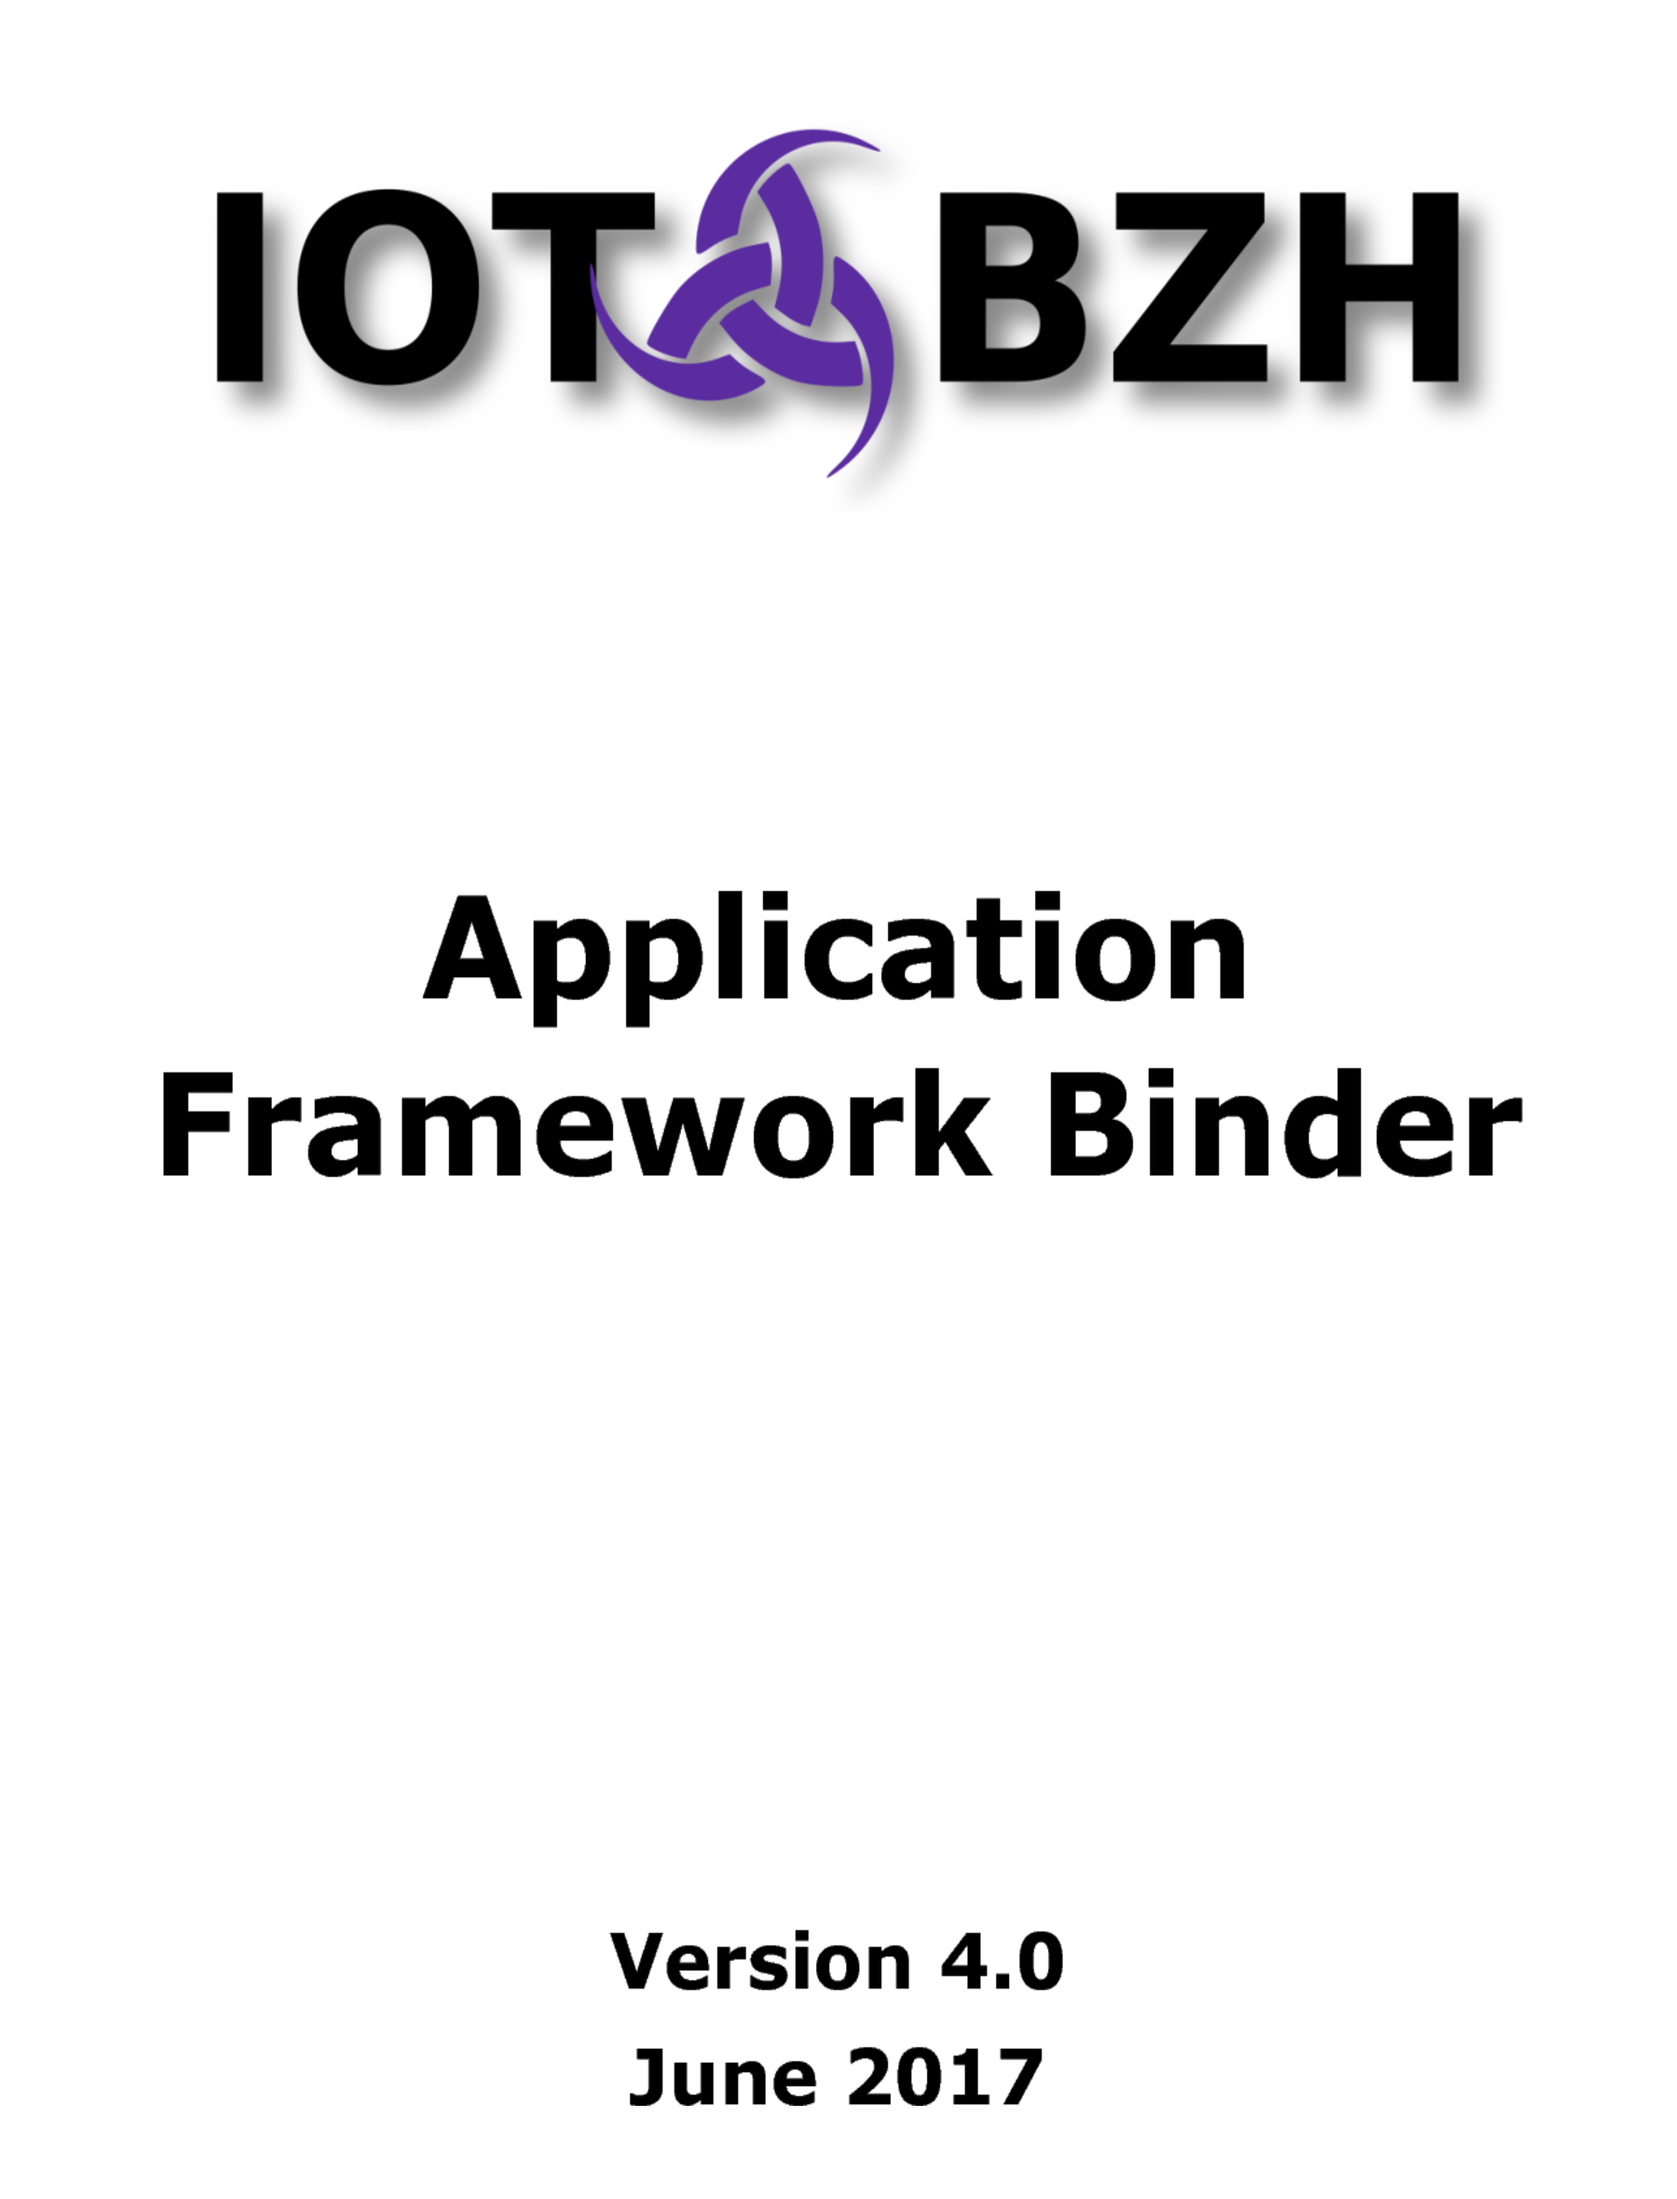
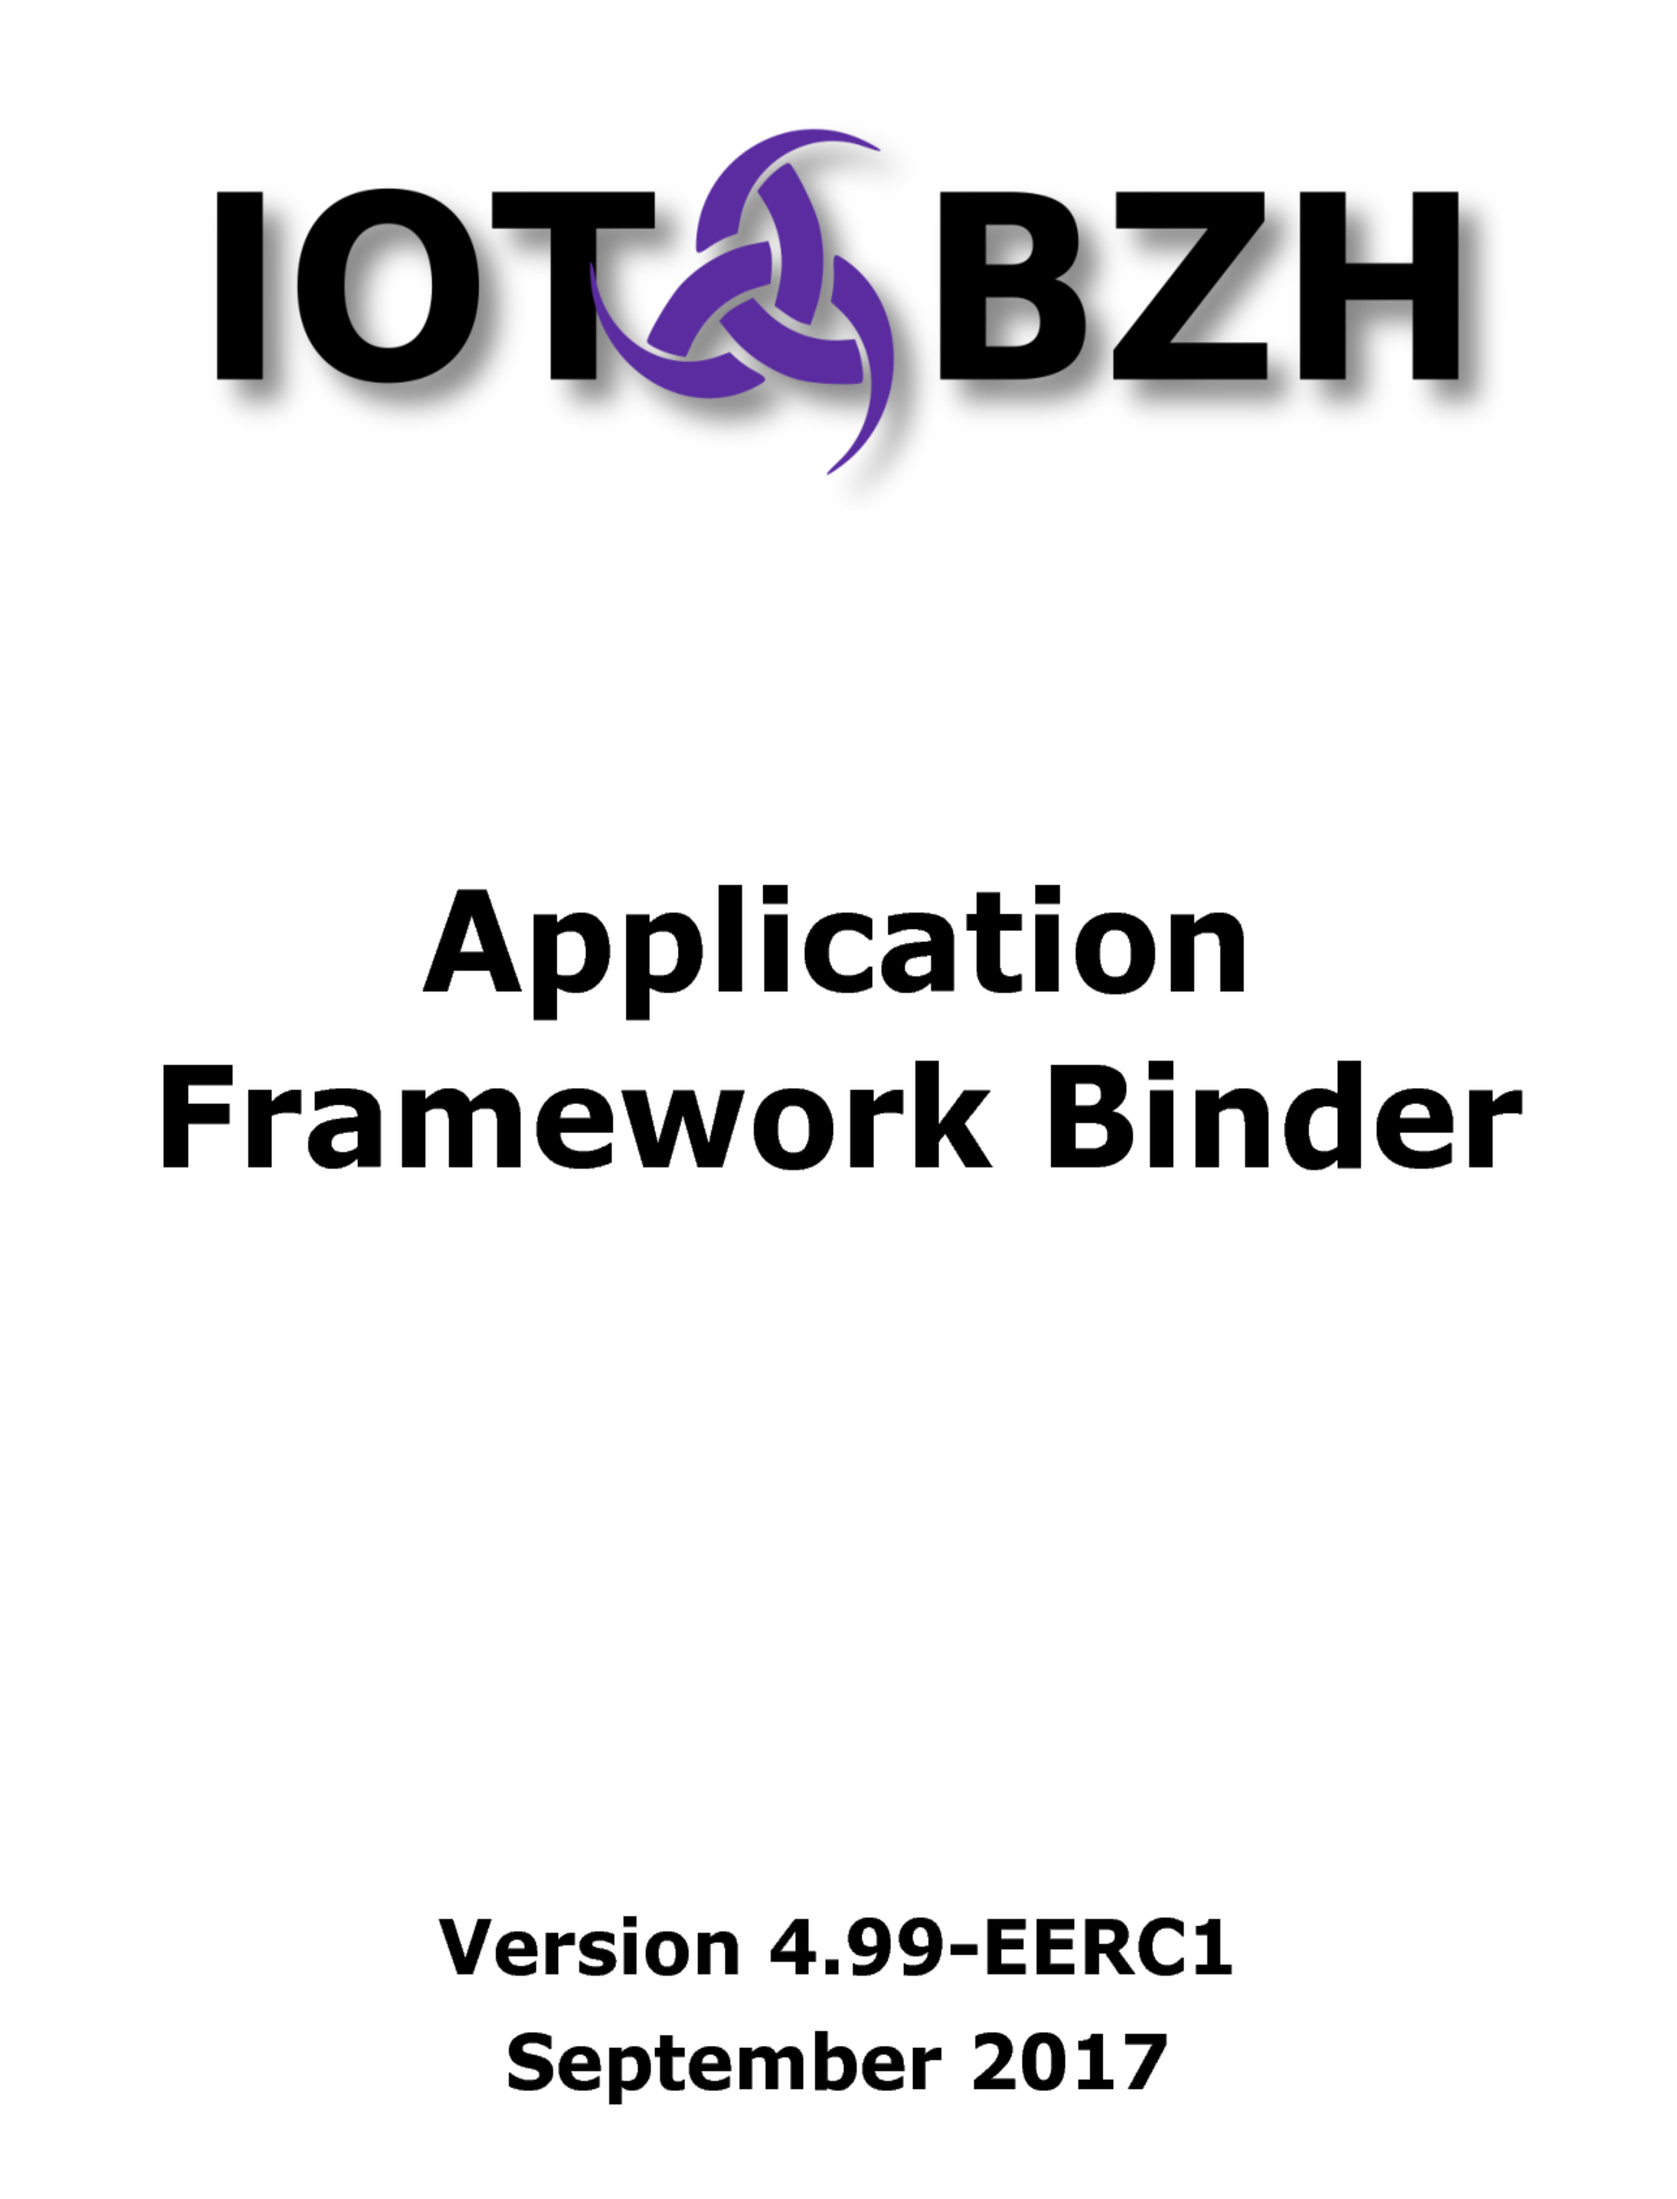
Bump doc to 4.99-EERC1

diff --git a/docs/README.md b/docs/README.md
@@ -1,12 +1,13 @@
 Document revisions
 ==================
 
-| Date         | Version | Designation                                  | Author                                                |
-|--------------|---------|----------------------------------------------|-------------------------------------------------------|
-| 23 May 2016  |   0.9   | Initial release                              | J. Bollo [ IoT.bzh ] <br/> M. Bachmann [ IoT.bzh ]    |
-| 30 May 2016  |   1.0   | Master document edition, final review        | S. Desneux [ IoT.bzh ] <br/> F. Ar Foll [ IoT.bzh ]   |
-| 21 Sept 2016 |   2.0   | Updated with new sections (events,widgets)   | J. Bollo [ IoT.bzh ] <br/> S. Desneux [ IoT.bzh ]     |
-| 12 Dec 2016  |   2.1   | Updated for CC Release                       | S. Desneux [ IoT.bzh ]                                |
-| 14 Dec 2016  |   3.0   | Minor fixes, alignment with CC version       | S. Desneux [ IoT.bzh ]                                |
-| 20 Mar 2017  |   3.1   | Systemd integration                          | J. Bollo [ IoT.bzh ] <br/> S. Desneux [ IoT.bzh ]     |
-| 21 Jun 2017  |   4.0   | Update for AGL DD                            | J. Bollo [ IoT.bzh ] <br/> S. Desneux [ IoT.bzh ]     |
+| Date         | Version    | Designation                                  | Author                                                |
+|--------------|------------|----------------------------------------------|-------------------------------------------------------|
+| 23 May 2016  |    0.9     | Initial release                              | J. Bollo [ IoT.bzh ] <br/> M. Bachmann [ IoT.bzh ]    |
+| 30 May 2016  |    1.0     | Master document edition, final review        | S. Desneux [ IoT.bzh ] <br/> F. Ar Foll [ IoT.bzh ]   |
+| 21 Sept 2016 |    2.0     | Updated with new sections (events,widgets)   | J. Bollo [ IoT.bzh ] <br/> S. Desneux [ IoT.bzh ]     |
+| 12 Dec 2016  |    2.1     | Updated for CC Release                       | S. Desneux [ IoT.bzh ]                                |
+| 14 Dec 2016  |    3.0     | Minor fixes, alignment with CC version       | S. Desneux [ IoT.bzh ]                                |
+| 20 Mar 2017  |    3.1     | Systemd integration                          | J. Bollo [ IoT.bzh ] <br/> S. Desneux [ IoT.bzh ]     |
+| 21 Jun 2017  |    4.0     | Update for AGL DD                            | J. Bollo [ IoT.bzh ] <br/> S. Desneux [ IoT.bzh ]     |
+| 21 Sep 2017  | 4.99-EERC1 | Update for AGL EE-RC1                        | J. Bollo [ IoT.bzh ] <br/> S. Desneux [ IoT.bzh ]     |
